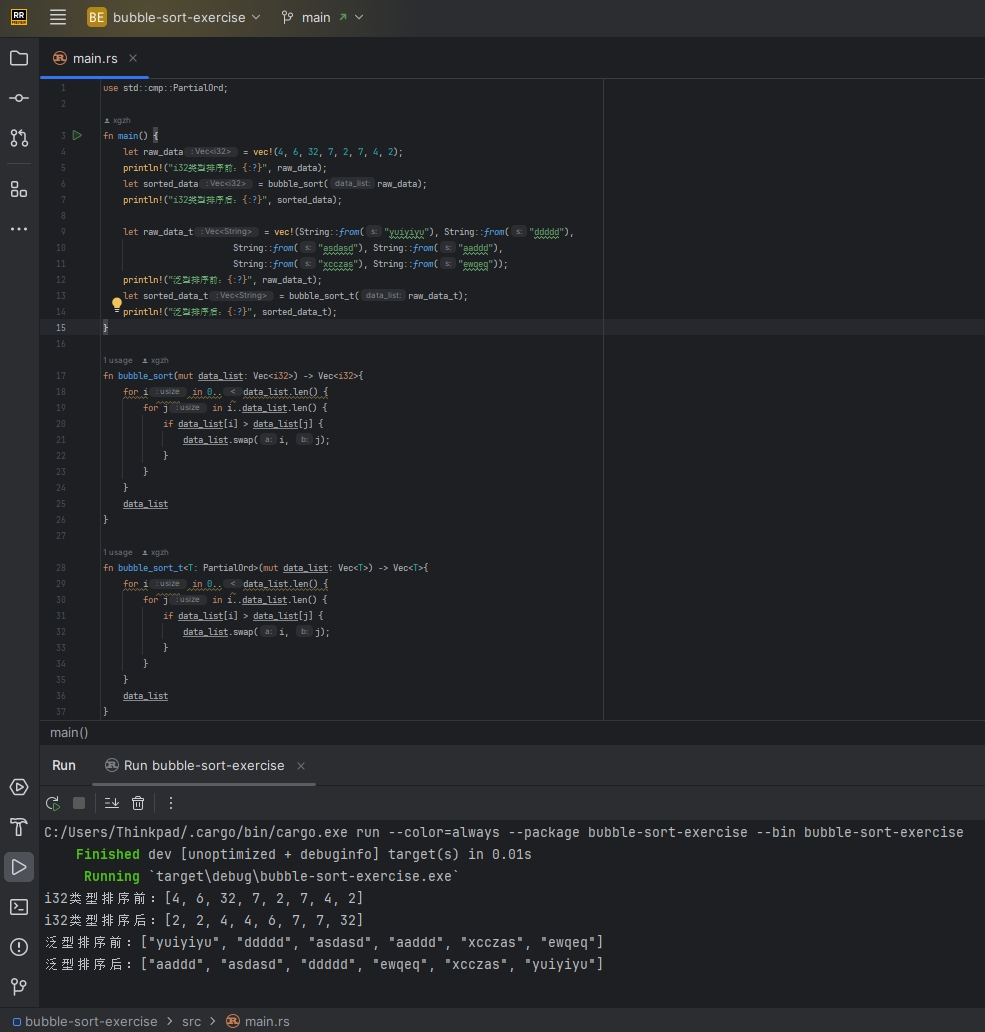
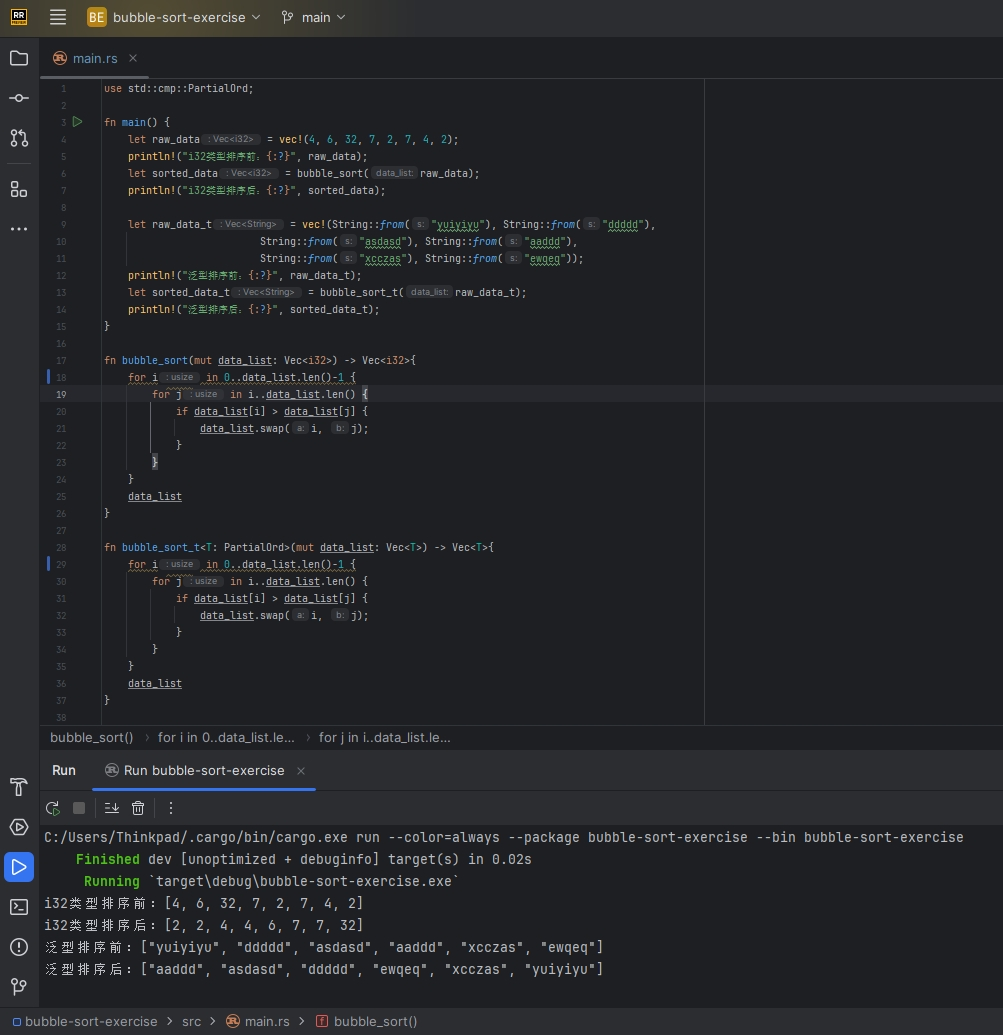
[*]fix range

diff --git a/src/main.rs b/src/main.rs
@@ -15,7 +15,7 @@ fn main() {
 }
 
 fn bubble_sort(mut data_list: Vec<i32>) -> Vec<i32>{
-    for i in 0..data_list.len() {
+    for i in 0..data_list.len()-1 {
         for j in i..data_list.len() {
             if data_list[i] > data_list[j] {
                 data_list.swap(i, j);
@@ -26,7 +26,7 @@ fn bubble_sort(mut data_list: Vec<i32>) -> Vec<i32>{
 }
 
 fn bubble_sort_t<T: PartialOrd>(mut data_list: Vec<T>) -> Vec<T>{
-    for i in 0..data_list.len() {
+    for i in 0..data_list.len()-1 {
         for j in i..data_list.len() {
             if data_list[i] > data_list[j] {
                 data_list.swap(i, j);
